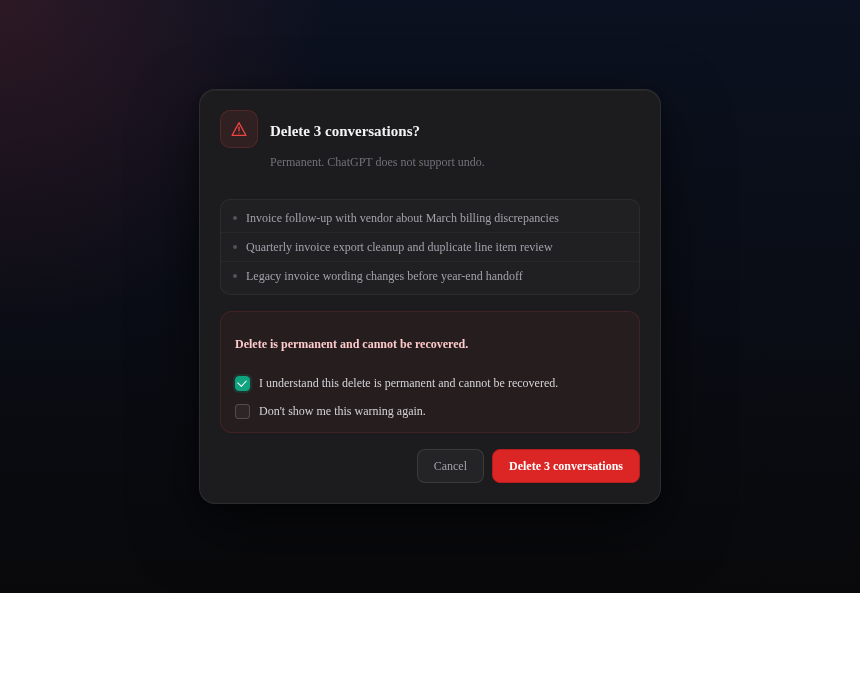
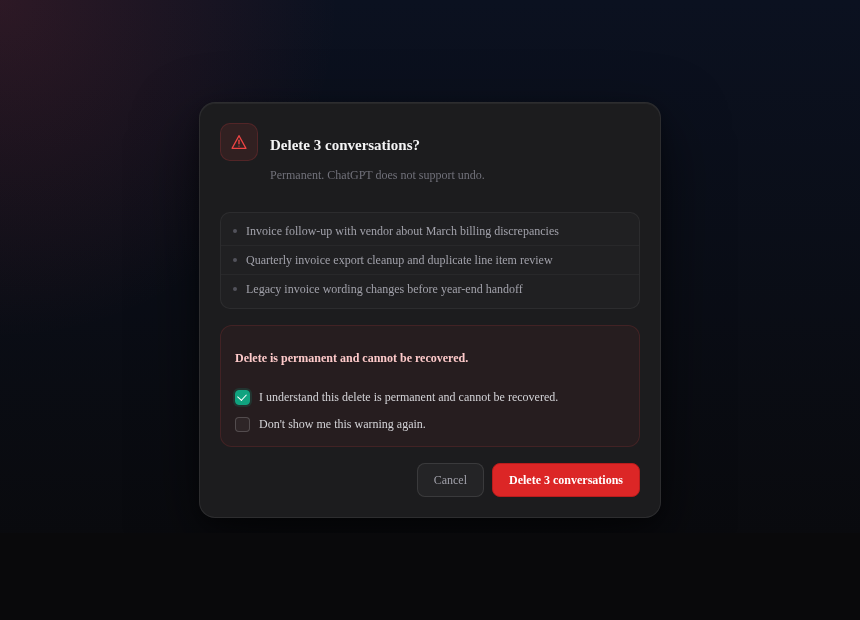
Update README and enhance delete warning UI with improved styles and dimensions

diff --git a/docs/screenshot-fixtures/delete-warning-shot.html b/docs/screenshot-fixtures/delete-warning-shot.html
@@ -7,18 +7,26 @@
     <link rel="stylesheet" href="../../styles.css" />
     <style>
       html {
-        height: 100%;
+        width: 860px;
+        height: 620px;
+        overflow: hidden;
         background:
           radial-gradient(circle at top left, rgba(239, 68, 68, 0.15), transparent 32%),
           linear-gradient(180deg, #0b1120 0%, #09090b 100%);
+        background-color: #09090b;
       }
 
       body {
         margin: 0;
-        min-height: 100%;
+        width: 860px;
+        height: 620px;
+        overflow: hidden;
         display: grid;
         place-items: center;
-        background: transparent;
+        background:
+          radial-gradient(circle at top left, rgba(239, 68, 68, 0.15), transparent 32%),
+          linear-gradient(180deg, #0b1120 0%, #09090b 100%);
+        background-color: #09090b;
       }
 
       .gptbd-modal {

diff --git a/README.md b/README.md
@@ -1,5 +1,10 @@
 # ChatGPT Bulk Delete
 
+![Version](https://img.shields.io/badge/version-1.0.0-3b82f6)
+![Manifest V3](https://img.shields.io/badge/Manifest-V3-10b981)
+![ChatGPT](https://img.shields.io/badge/Works%20on-chatgpt.com-111827)
+![Local Only](https://img.shields.io/badge/Local--only-No%20third--party%20server-22c55e)
+
 Find old chats fast. Check what you want gone. Delete them in bulk.
 
 ## Screenshots
